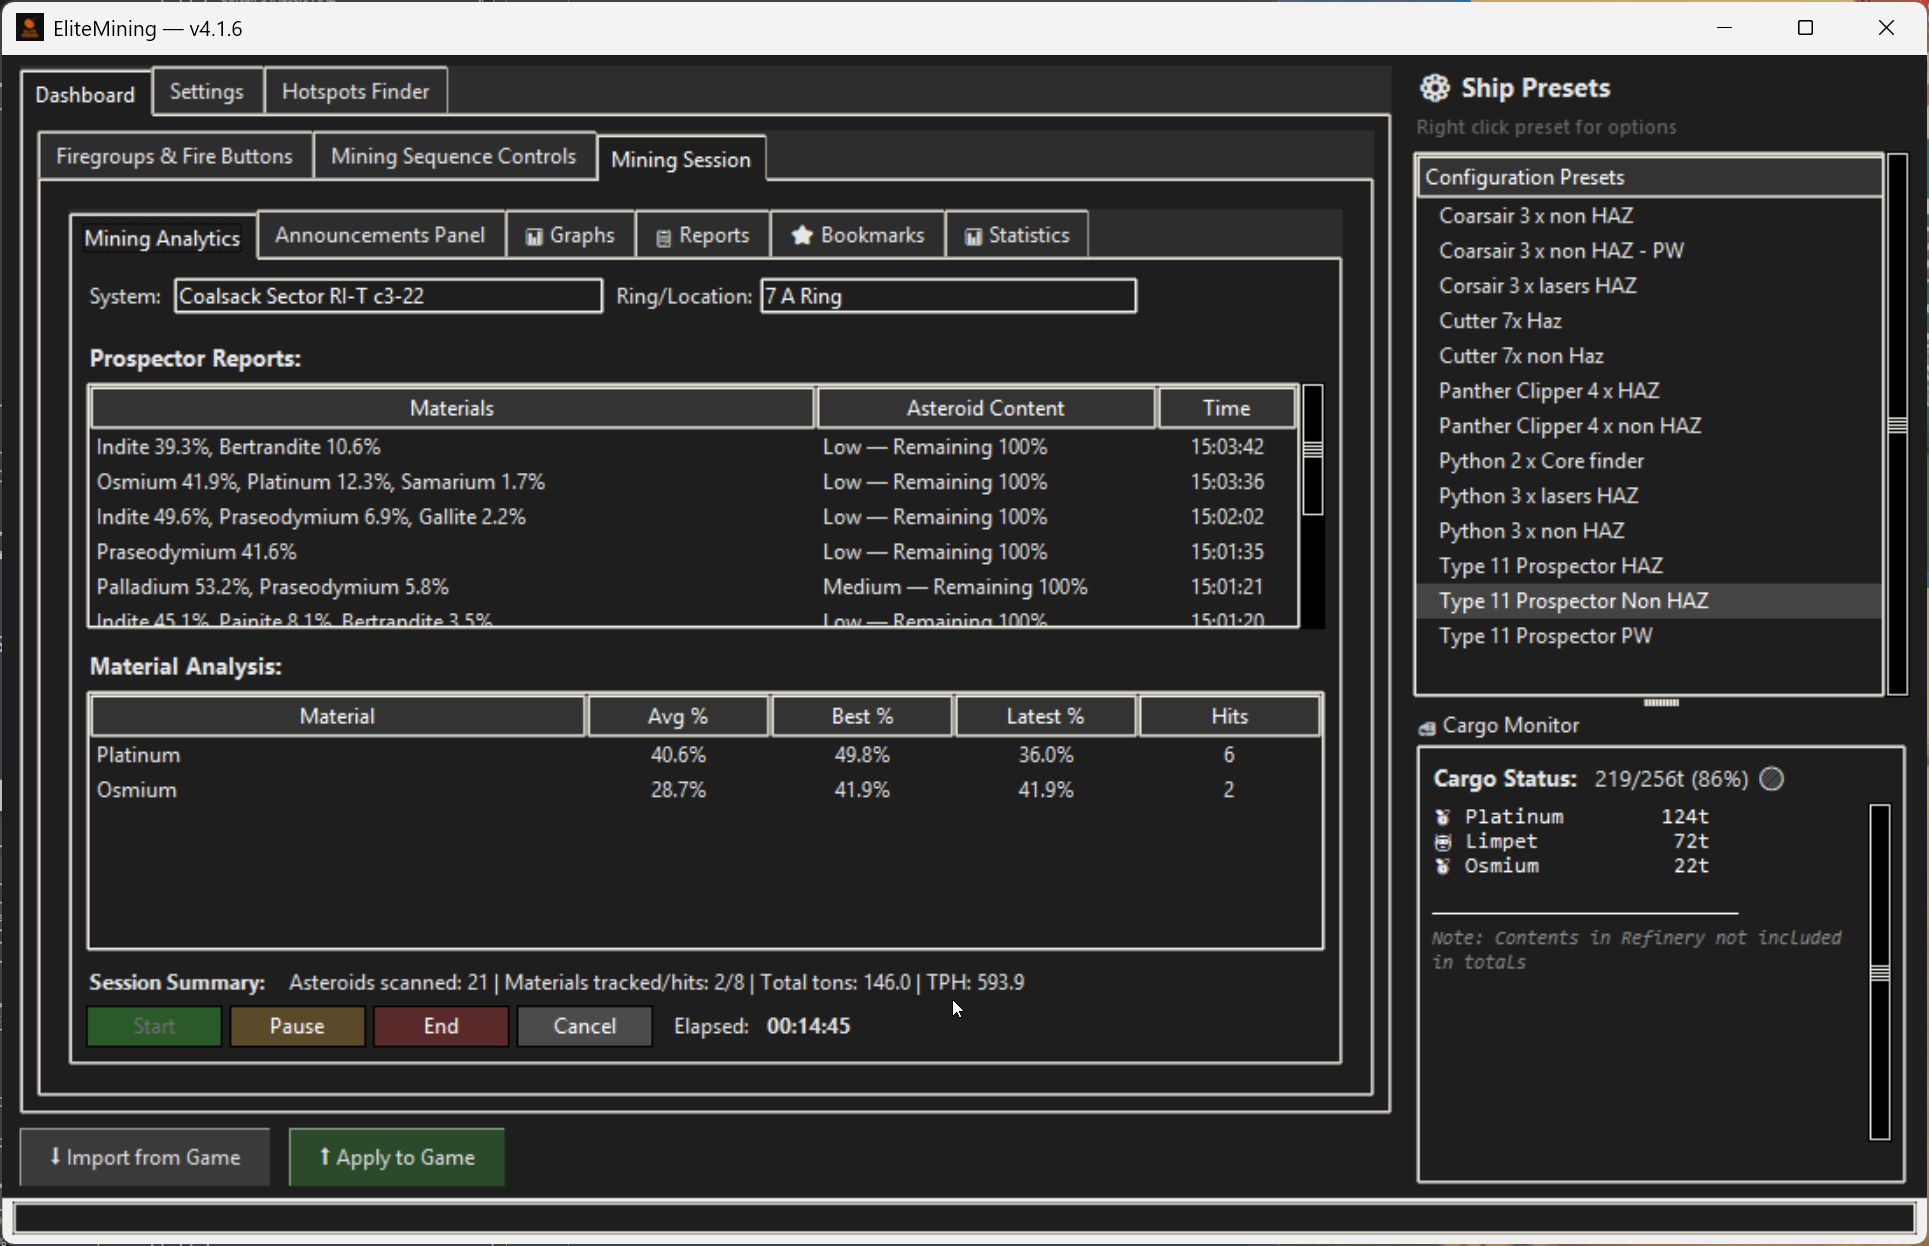
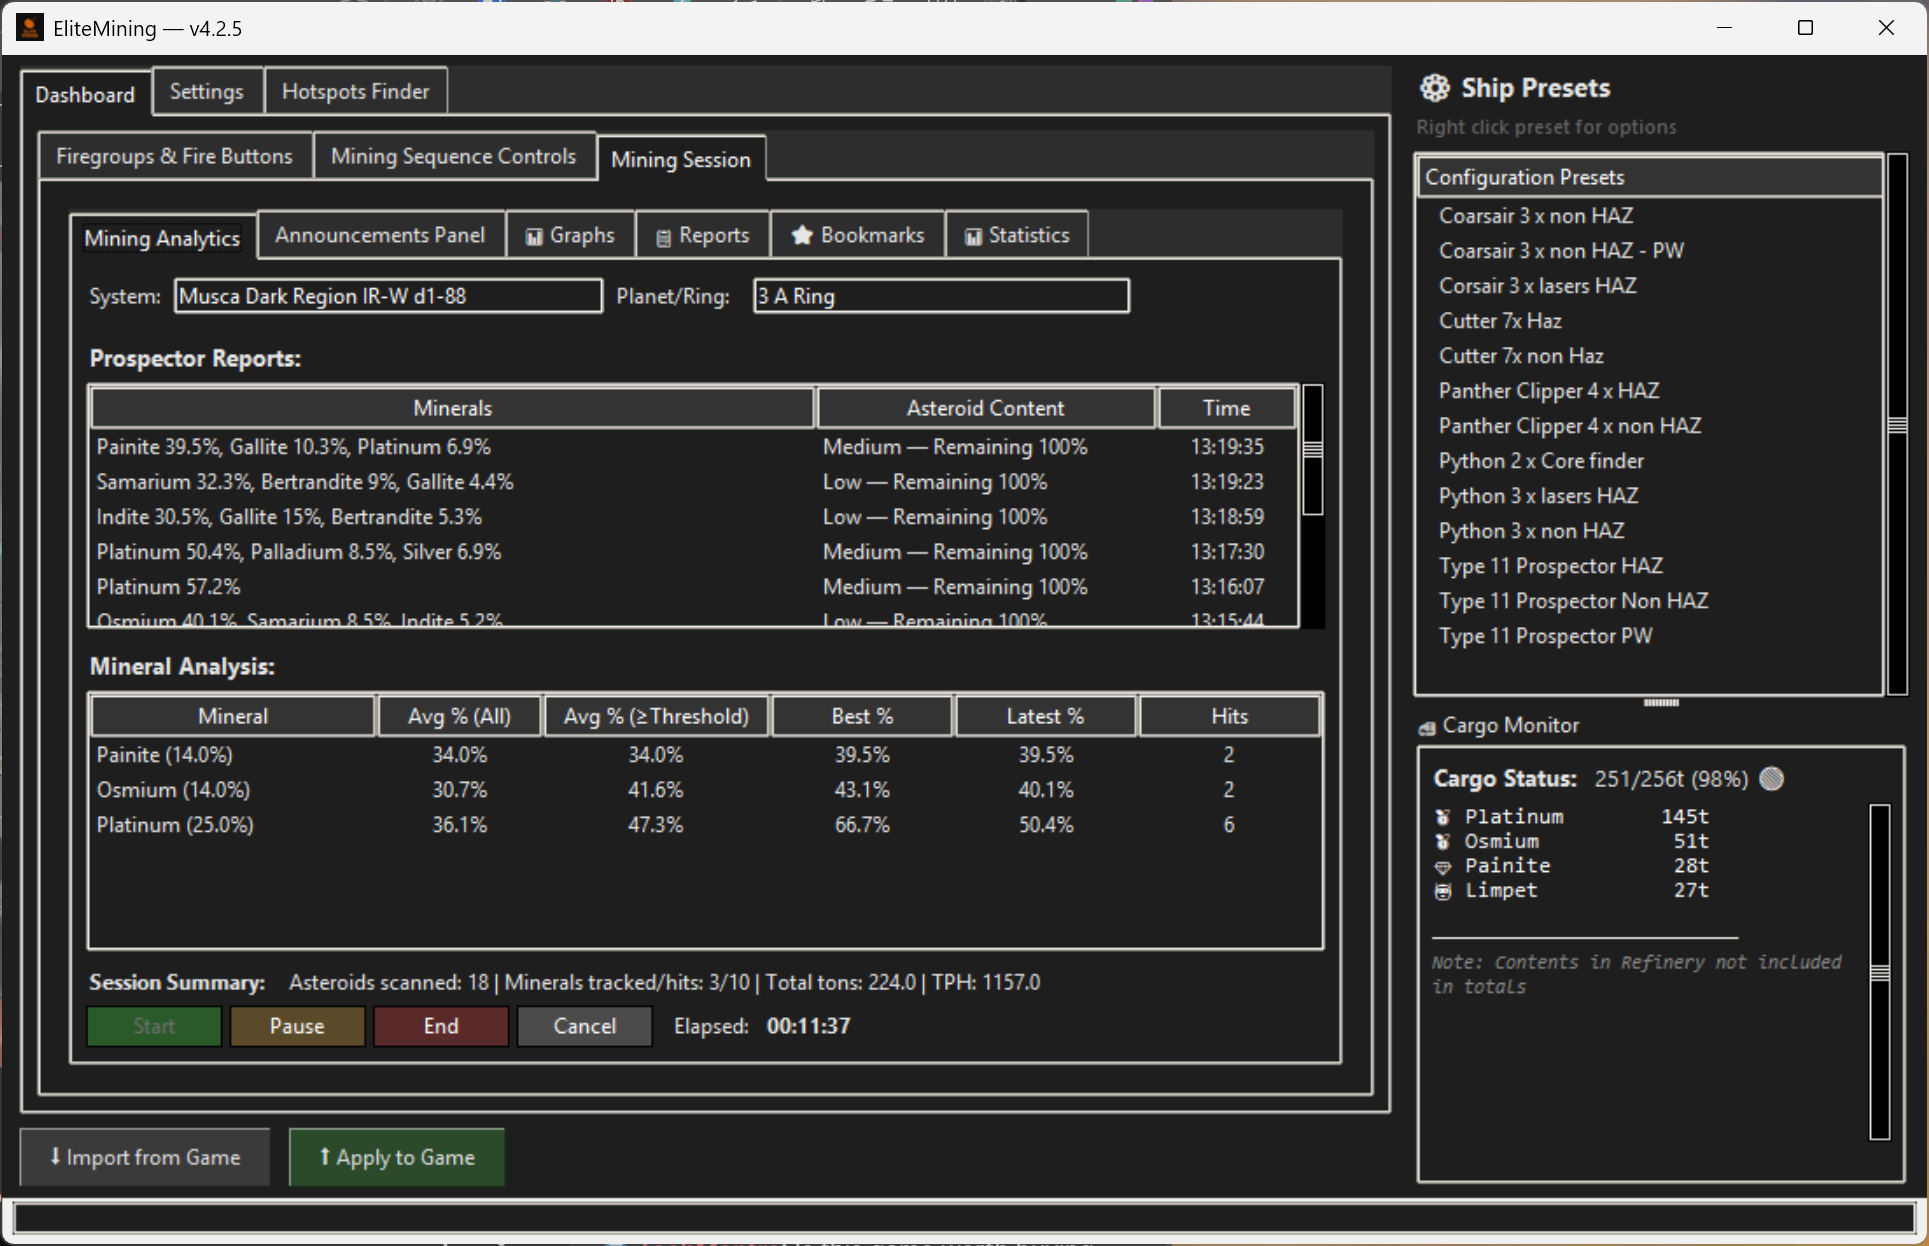
Update version and release

diff --git a/app/prospector_panel.py b/app/prospector_panel.py
@@ -1175,7 +1175,7 @@ class ProspectorPanel(ttk.Frame):
         self.system_entry.grid(row=0, column=1, sticky="w", padx=(0, 5))
         self.ToolTip(self.system_entry, "Current system name. (Can also be entered manually)")
 
-        ttk.Label(sysbody_row, text="Ring/Location:", font=("Segoe UI", 9)).grid(row=0, column=2, sticky="w", padx=(0, 2))
+        ttk.Label(sysbody_row, text="Planet/Ring:", font=("Segoe UI", 9)).grid(row=0, column=2, sticky="w", padx=(0, 2))
         self.body_entry = ttk.Entry(sysbody_row, textvariable=self.session_body, width=35)
         self.body_entry.grid(row=0, column=3, sticky="w")
         self.ToolTip(self.body_entry, "Current location: rings, planets, stations, or carriers. (Can also be entered manually)")

diff --git a/app/main.py b/app/main.py
@@ -348,7 +348,7 @@ class TextOverlay:
             self.overlay_window = None
 
 APP_TITLE = "EliteMining"
-APP_VERSION = "v4.2.4"
+APP_VERSION = "v4.2.6"
 PRESET_INDENT = "   "  # spaces used to indent preset names
 
 LOG_FILE = os.path.join(os.path.expanduser("~"), "EliteMining.log")

diff --git a/app/version.py b/app/version.py
@@ -2,7 +2,7 @@
 Version management for Elite Mining application
 """
 
-__version__ = "4.2.4"
+__version__ = "4.2.6"
 __build_date__ = "2025-09-12"
 __config_version__ = "4.1.6"  # Config schema version - increment when config structure changes
 
